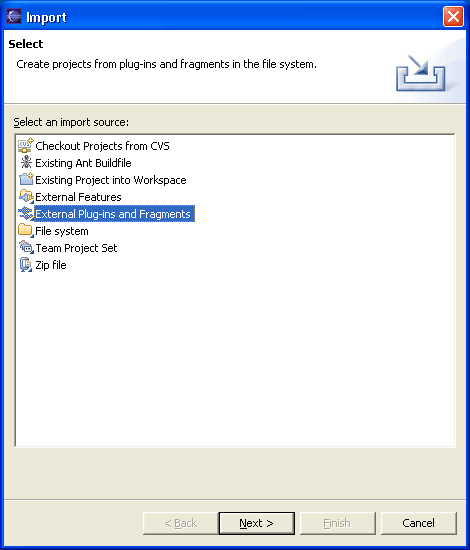
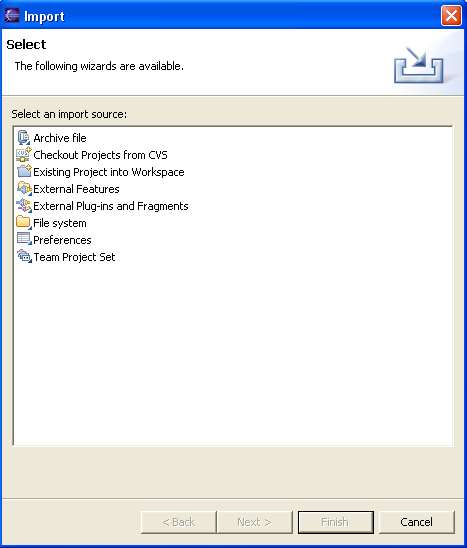
Updates for new archive terminology replacing zip

Changed region(s): [[0.0, 0.0, 1.0, 1.0]]

diff --git a/bundles/org.eclipse.platform.doc.user/reference/ref-71.htm b/bundles/org.eclipse.platform.doc.user/reference/ref-71.htm
@@ -15,7 +15,7 @@ This wizard help you export resources from the Workbench.</P>
 <P CLASS="Para">
 When the Export wizard first comes up, you must choose what type of export to
 do:</P>
-<P CLASS="Para"> <img src="../images/Image264_export_sel.png" alt="Export selection page" border="0" ></P>
+<P CLASS="Para"> <img src="../images/Image264_export_sel.png" alt="Export selection page" border="0"></P>
 <DIV CLASS="Topic">
 <h2>
 File System</h2>
@@ -156,17 +156,17 @@ Create hierarchy (folder) structure in the file system only for selected folders
 </DIV>
 
 <DIV CLASS="Topic">
-<h2>
-ZIP File</h2>
-<p CLASS="Head">
-If you choose this option, you will export files to an archive (ZIP) file.</p>
-  <P>&nbsp;<img src="../images/Image266_export_zip.png" alt="ZIP file export" border="0" > 
+  <h2> Archive File</h2>
+  <p CLASS="Head"> If you choose this option, you will export files to an archive 
+    file.</p>
+  <P>&nbsp;<img src="../images/Image266_export_zip.png" alt="ZIP file export" border="0"> 
   </P>
 <P>&nbsp;
 </P>
 <TABLE BORDER="1" cellspacing="0">
 <CAPTION>
-Export - ZIP File Options</CAPTION>
+    Export - Archive File Options 
+    </CAPTION>
 <THEAD>
 <TR>
 <TH ROWSPAN="1" COLSPAN="1">
@@ -239,16 +239,13 @@ Deselect All</P>
 </TD>
 </TR>
 <TR>
-<TD COLSPAN="1">
-ZIP File
-</TD>
+        <TD COLSPAN="1"> Archive File </TD>
 <TD COLSPAN="1">
 The path and name of an archive file into which the resources will be exported.&nbsp; Type the path,
 select a previous path from the drop down list, or Browse to select a path and file name on the file system.
 </TD>
-<TD COLSPAN="1">
-The ZIP file of the previous export, or &lt;blank&gt;.
-</TD>
+        <TD COLSPAN="1"> The archive file of the previous export, or &lt;blank&gt;. 
+        </TD>
 </TR>
 <TR>
 <TD COLSPAN="1">

diff --git a/bundles/org.eclipse.platform.doc.user/reference/ref-70.htm b/bundles/org.eclipse.platform.doc.user/reference/ref-70.htm
@@ -14,9 +14,8 @@ Import wizard</H1>
 This wizard helps you import resources into the Workbench.</P>
 <P CLASS="Para">
 When the Import wizard first comes up, you must choose what type of import to
-do:</P>
-<P CLASS="Para">
-<img src="../images/Image261_import_sel.png" alt="Import wizard" border="0" ></P>
+do:</P><img src="../images/Image261_import_sel.png" alt="Import wizard" border="0">
+<P CLASS="Para"> </P>
 <DIV CLASS="Topic">
 <h2>
 File System</h2>
